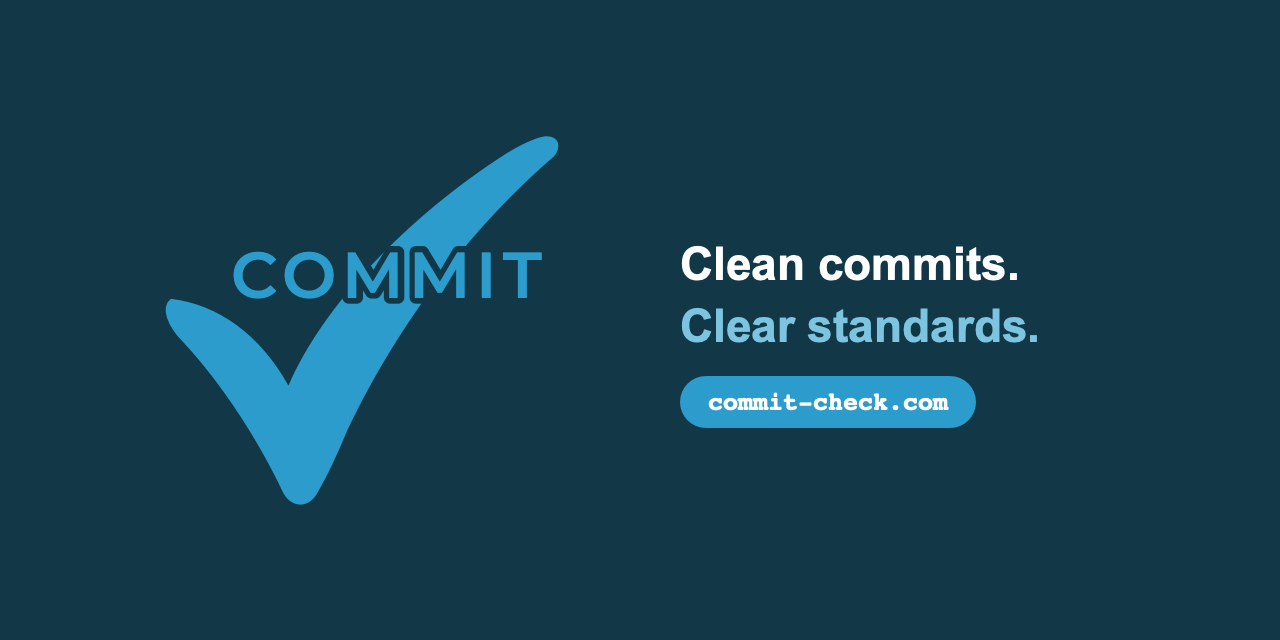
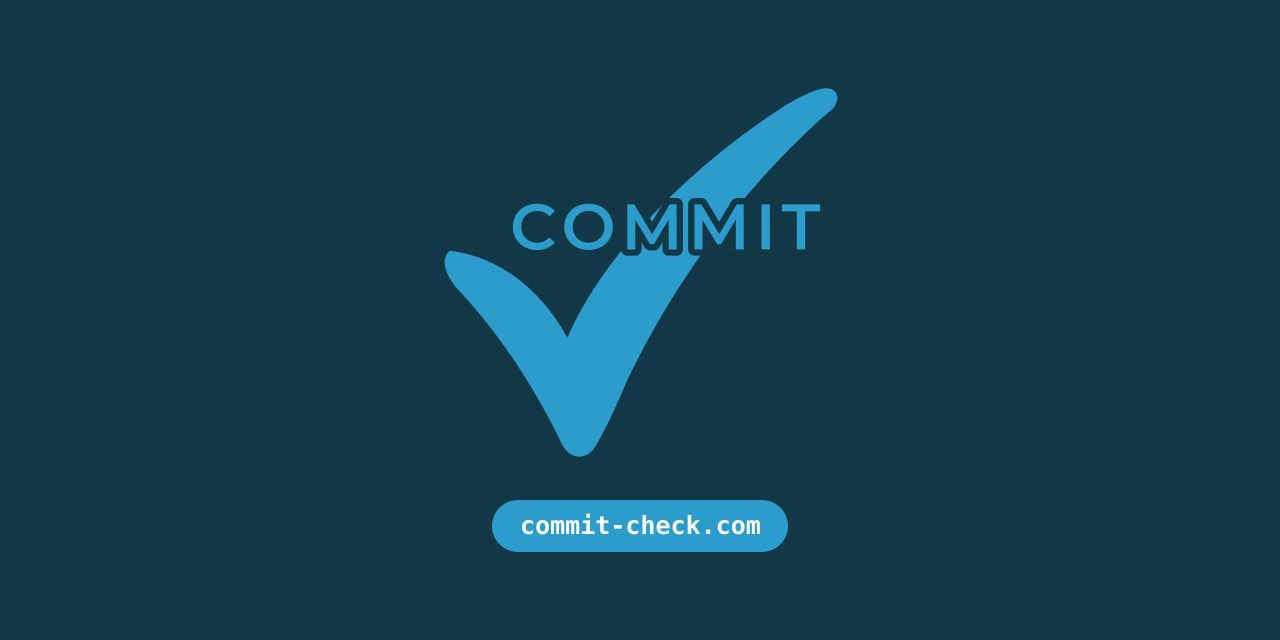
docs: take the tagline out of the brand images (#57)
"One config file. Every place your team commits." has become the sentence
the project leads with, which left three different taglines in circulation:
that one on the website, "one versioned file, enforced everywhere" in this
README, and "Clean commits. Clear standards." baked into the banner and the
social preview.

Rather than re-bake a new sentence into the PNGs, the images now carry no
sentence at all. A slogan inside a raster cannot be reviewed in a diff and
cannot be corrected without a machine that has Montserrat installed, so it
goes stale quietly — which is how these came to be a version behind. The
wordmark and the domain do not expire. The sentence moves to the prose
beside the image, where changing it is a one-line diff.

The two banners just lose their middle line; the space between the lockup
and the sample check run reads as margin. The social preview needed more
than a deletion: removing its two lines would have left the
commit-check.com pill floating alone in the right column, so the lockup is
now centred with the pill beneath it.

On verification. The PNGs were rendered on a different librsvg than this
machine has, and glyph antialiasing differs between versions, so a
re-render rewrites every text edge whatever you change. Diffing the new
PNGs against the committed ones would therefore prove nothing. Instead I
rendered the unmodified SVGs first and diffed those against my edited
renders — same binary on both sides — which puts the banner change inside
[…]

Changed region(s): [[0.125, 0.125, 0.8125, 0.7812], [0.5312, 0.5625, 0.7812, 0.6875], [0.375, 0.7812, 0.625, 0.875]]

diff --git a/branding/README.md b/branding/README.md
@@ -10,10 +10,17 @@ legible where they cross the check.
 | `avatar.png` | The org avatar. White swoosh on brand blue, 1024x1024, wordless. |
 | `logo.png` / `logo-dark.png` | The full lockup for light / dark backgrounds (keyline colour differs). |
 | `logo-mark.png` | The swoosh alone, transparent, brand blue. |
-| `banner-light.png` / `banner-dark.png` | READMEs and docs. Pair them in a `<picture>`. Rasterized at 2× (2560×640) so they stay sharp on retina displays. |
+| `banner-light.png` / `banner-dark.png` | READMEs and docs. Pair them in a `<picture>`. Lockup on the left, a sample check run on the right, no tagline. Rasterized at 2× (2560×640) so they stay sharp on retina displays. |
 | `favicon.svg` | Favicon / small tile. |
-| `social-preview.png` | GitHub social preview (1280x640). |
+| `social-preview.png` | GitHub social preview (1280x640). Centred lockup over the domain, no tagline. Upload it per repository under Settings → Social preview; nothing does that for you. |
 | `*.svg` | Source of truth. The wordmark uses Montserrat SemiBold; PNGs here are the reference renders. |
+
+None of these carry a tagline, and new ones should not either. A slogan baked
+into a PNG cannot be reviewed in a diff, cannot be corrected without a machine
+that has Montserrat installed, and goes stale silently — these read
+"Clean commits. Clear standards." for a while after the rest of the org had
+stopped saying it. The wordmark and the domain do not expire; the sentence belongs in the
+prose next to the image, where changing it is a one-line diff.
 
 Reference the **PNGs** in READMEs, not the SVGs: GitHub proxies README images
 through camo, which handles SVG unreliably — and the SVG text needs Montserrat
@@ -24,7 +31,13 @@ To re-render the banners (needs Montserrat SemiBold installed):
 ```bash
 rsvg-convert -w 2560 -h 640 -o banner-light.png banner-light.svg
 rsvg-convert -w 2560 -h 640 -o banner-dark.png banner-dark.svg
+rsvg-convert -w 1280 -h 640 -o social-preview.png social-preview.svg
 ```
+
+Different librsvg versions antialias glyph edges slightly differently, so a
+re-render is a whole-image change even when you edited one line. To see what
+you actually changed, render the file before and after with the *same* binary
+and diff those two.
 
 ## Legacy files
 

diff --git a/profile/README.md b/profile/README.md
@@ -4,10 +4,10 @@
      handles SVG unreliably. The .svg files alongside these are the source. -->
 <picture>
   <source media="(prefers-color-scheme: dark)" srcset="https://raw.githubusercontent.com/commit-check/.github/main/branding/banner-dark.png">
-  <img src="https://raw.githubusercontent.com/commit-check/.github/main/branding/banner-light.png" alt="Commit Check — Clean commits. Clear standards.">
+  <img src="https://raw.githubusercontent.com/commit-check/.github/main/branding/banner-light.png" alt="Commit Check">
 </picture>
 
-An open policy engine for Git commit metadata — one versioned file, enforced everywhere.
+One config file. Every place your team commits.
 
 [![PyPI](https://img.shields.io/pypi/v/commit-check?logo=pypi&logoColor=white&color=2c9ccd)](https://pypi.org/project/commit-check/)
 [![Downloads](https://img.shields.io/pypi/dm/commit-check?color=2c9ccd)](https://pypi.org/project/commit-check/)
